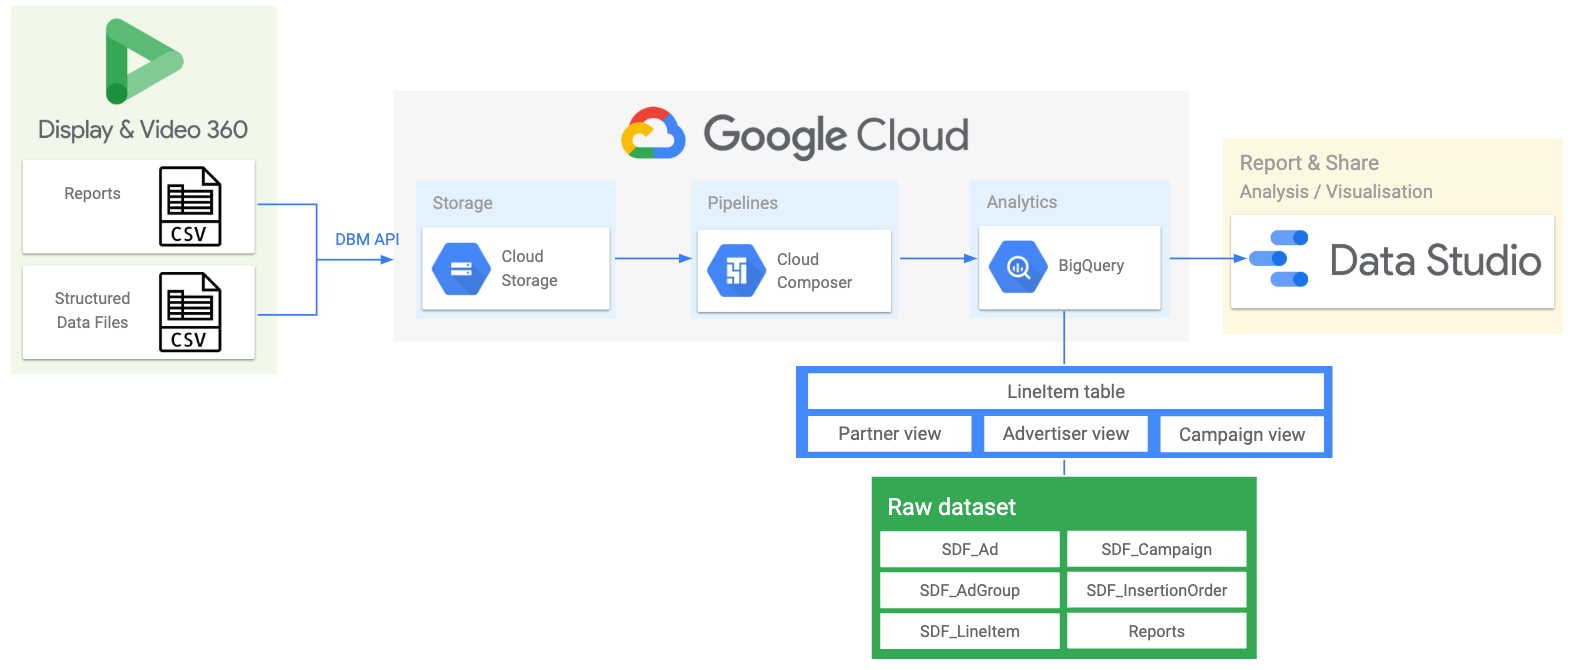
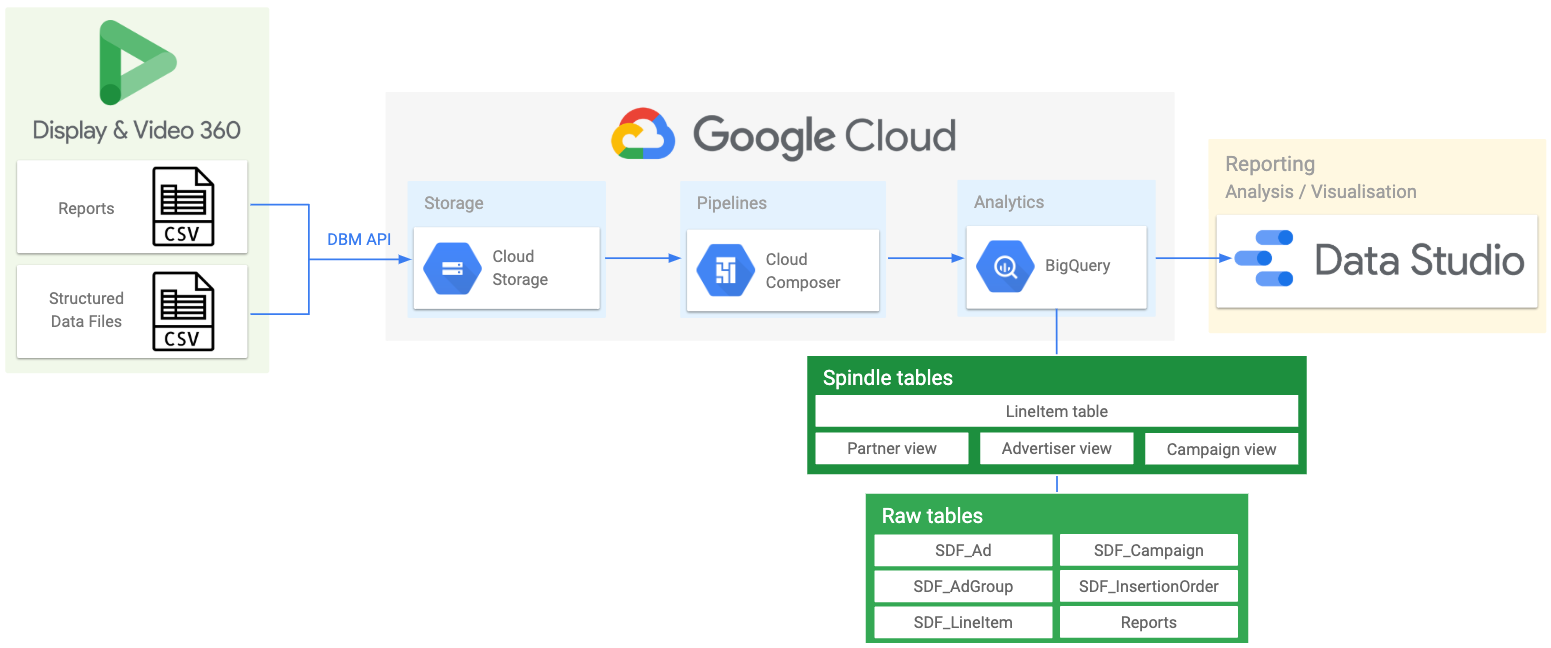
Updated readme, and deploy.sh

Changed region(s): [[0.0, 0.1852, 1.0, 1.0], [0.3714, 0.1543, 0.619, 0.2469], [0.0, 0.0309, 0.1547, 0.216]]

diff --git a/dags/spindle_dag.py b/dags/spindle_dag.py
@@ -42,6 +42,10 @@ from orchestra.google.marketing_platform.sensors.display_video_360 import (
 
 logger = logging.getLogger(__name__)
 
+# --------------------------------------------------------------------------------
+# Set variables
+# --------------------------------------------------------------------------------
+
 advertisers_report_definition = """{
   "params": {
     "type": "TYPE_GENERAL",
@@ -99,7 +103,6 @@ perf_report_definition = """{
         "METRIC_BILLABLE_IMPRESSIONS",
         "METRIC_CLICKS",
         "METRIC_CTR",
-        "METRIC_TRUEVIEW_VIEWS",
         "METRIC_TOTAL_CONVERSIONS",
         "METRIC_LAST_CLICKS",
         "METRIC_LAST_IMPRESSIONS",
@@ -128,6 +131,9 @@ def group_advertisers(l, n):
   for i in range(0, len(l), n):
     yield l[i:i + n]
 
+# --------------------------------------------------------------------------------
+# Set default arguments
+# --------------------------------------------------------------------------------
 
 default_args = {
     "owner": "airflow",
@@ -137,6 +143,10 @@ default_args = {
     "retries": 1,
     "retry_delay": timedelta(seconds=3),
 }
+
+# --------------------------------------------------------------------------------
+# Main DAG
+# --------------------------------------------------------------------------------
 
 dag = models.DAG(
     'spindle_v3',

diff --git a/README.md b/README.md
@@ -2,9 +2,9 @@
 
 ## What is Spindle?
 
-Spindle is a QA (quality assurance) dashboard that can be used to identify financial or reputational risk across multiple Display & Video 360 (DV360) advertisers, surfaced in a fully configurable Data Studio dashboard. It uses a set of predefined ‘flags’ to stack rank DV360 entities according to potential risk. Flags can be reconfigured as required to check for personalized best practices (e.g. naming conventions, brand safety, etc).
+Spindle is a QA and feature adoption dashboard for Display & Video 360 (DV360) advertisers. It can be used to quickly identify financial (e.g. overspend) or reputational (e.g. brand safety) risk, and validate best practice across multiple advertisers. Spindle uses a set of predefined ‘flags’ to stack rank DV360 entities according to potential risk, but is fully configurable, and can be customised to check for specific best practice or flags (e.g. adherence to naming conventions, brand safety controls, audience, geo targeting, etc).
 
-Spindle leverages [Orchestra](https://github.com/google/orchestra), an open source data pipeline and orchestration tool developed on Google Cloud Composer. This repository is intended to streamline the deployment of Spindle, and required components from Orchestra, to a new or existing Cloud Composer environment.
+Spindle utilises [Orchestra](https://github.com/google/orchestra), an open source data orchestration tool developed on Google Cloud Composer. This repository is intended to streamline the deployment of Spindle and the necessary components from Orchestra, to a new or existing Cloud Composer environment.
 
 **This is not an officially supported Google product.**
 
@@ -14,85 +14,114 @@ Spindle leverages [Orchestra](https://github.com/google/orchestra), an open sour
 
 ## Installation
 
-The easiest and quickest way to deploy Spindle, is by using this deployment script. New deployments should take ~25 minutes to complete. Deployments to existing Composer environments should finish in under 5 mins.
+The easiest and quickest way to deploy Spindle, is by using this deployment script. New deployments should take approximately 25 minutes to complete. Deployments to existing Composer environments should finish in under 5 mins.
 
 ### Before you begin
 
 #### Prepare your Cloud project
 This script will use the default service credentials for Compute Engine ("Compute Engine default service account"). These service accounts have access to all Cloud APIs enabled for your Cloud project, making them a good fit for Spindle/Orchestra.
 
-*   Make sure that billing is enabled for your Google Cloud project.
-*   Enable the [Cloud Composer](https://console.cloud.google.com/apis/library/composer.googleapis.com) and [DoubleClick Bid Manager API](https://console.cloud.google.com/apis/api/doubleclickbidmanager.googleapis.com/overview) from the [API Library](https://console.cloud.google.com/apis/library)
-*   **Important**: create your destination BigQuery dataset **before** deploying your pipeline. The Spindle DAG will fail if the dataset does not exist prior to execution. This is to prevent accidentally overwriting an existing dataset.
+*   Make sure that billing is enabled for your Google Cloud project
+*   Enable the [Cloud Composer](https://console.cloud.google.com/apis/library/composer.googleapis.com) and [DoubleClick Bid Manager](https://console.cloud.google.com/apis/api/doubleclickbidmanager.googleapis.com/overview) API from the [API Library](https://console.cloud.google.com/apis/library)
+*   **Important**: create your destination BigQuery dataset **before** deployment. The Spindle pipeline will fail if the dataset does not exist prior to execution, to prevent accidentally overwriting existing datasets.
 
 > :exclamation: If deploying to an existing Composer environment, ensure it has DoubleClick Bid Manager included in the 'Google API scopes' or Airflow connection.
 
 #### Create Display & Video 360 user
 
-Your Compute Engine service account email (similar to XX-compute@developer.gserviceaccount.com) will need to be setup as a DV360 user so that it can access the required data from your DV360 account. DV360 partner-level access is required to [create a new user](https://support.google.com/displayvideo/answer/2723011?hl=en). New DV360 users should be created using this configuration:
+Your Compute Engine service account email (similar to XX-compute@developer.gserviceaccount.com) will need to be setup as a DV360 user so that it can access data from your DV360 account. DV360 partner-level access is required to [create a new user](https://support.google.com/displayvideo/answer/2723011?hl=en). New DV360 users should be created using this configuration:
 
 *   'User email' should be the email associated with your default service account
 *   Select all Partner IDs you wish to access with Spindle
-*   Ensure the user is given 'Read & write' access permissions
+*   Ensure the user is given 'Read & write' access permission
 
 ### Pipeline setup
 
-1.   Activate the [Cloud Shell](https://cloud.google.com/shell/docs/using-cloud-shell) and then 'Launch Editor'
-2.   From the command Shell, clone this repository
+1.   Launch a new [Cloud Shell](https://cloud.google.com/shell/docs/launching-cloud-shell) with the code editor [activated](https://ssh.cloud.google.com/cloudshell/editor)
+3.   From the Cloud Shell, clone this repository:
 
 ```shell
-git clone https://github.com/google/spindle
+git clone https://github.com/google/spindle-dv360
 ```
-3.   From the editor window open the configuration file  `spindle.config`
+4.   From the code editor, use the left-hand pane to find and open the configuration file called `spindle.config`
 
-For deployments to a ***new*** Composer instance, follow this template:
-
-| Field |  | Description | Example |
-| :----- | :--------- | :----- | :---------- |
-| cloud_project_id| Required | Google Cloud Project ID | my-gcp-project1  |
-| bq_dataset | Required | BigQuery destination dataset name | spindle_client |
-| install_composer| Required | Indicates whether to create a new Composer instance | true  |
-| composer_location| Required | Compute Engine [region](https://cloud.google.com/compute/docs/regions-zones#locations) | europe-west2  |
-| composer_zone | Required | Compute Engine [zone](https://cloud.google.com/compute/docs/regions-zones#locations) | europe-west1-c |
-| composer_gcs_bucket | Optional | Cloud Storage bucket URI. Do not include leading 'gs://' or trailing '/dags' | Leave blank for new Composer instances |
-
-For deployments to an ***existing*** Composer instance:
+For deployments to a **new** Composer instance, `spindle.config` should follow this template:
 
 | Field |  | Description | Example |
 | :----- | :--------- | :----- | :---------- |
-| cloud_project_id| Required | Google Cloud Project ID | my-gcp-project1  |
-| bq_dataset | Required | BigQuery destination dataset name  | spindle_client |
-| install_composer| Required | Indicates whether to create a new Composer instance | false  |
-| composer_gcs_bucket | Required | Cloud Storage bucket URI. Do not include leading 'gs://' or trailing '/dags' | europe-west2-spindle-42cn4da-bucket |
+| *cloud_project_id*| Required | Google Cloud Project ID | my-gcp-project1  |
+| *bq_dataset* | Required | BigQuery destination dataset name | spindle_clientname |
+| *composer_gcs_bucket* | Optional | Cloud Storage bucket URI. Do not include leading 'gs://' or trailing '/dags' | Leave blank for new Composer instances |
+| *install_composer*| Required | Indicates whether to create a new Composer instance | true  |
+| *composer_location*| Required | Compute Engine [region](https://cloud.google.com/compute/docs/regions-zones#locations) | europe-west2  |
+| *composer_zone* | Required | Compute Engine [zone](https://cloud.google.com/compute/docs/regions-zones#locations) | europe-west1-c |
 
-4.  After updating `spindle.config`, execute the following in the Shell:
+
+Your completed `spindle.config` should look similar to:
+
+```json
+{
+  "cloud_project_id": "my-gcp-project1",
+  "bq_dataset": "spindle_clientname",
+  "composer_gcs_bucket": "",
+  "install_composer": "true",
+  "environment_name": "clientname-spindle",
+  "composer_location": "europe-west1",
+  "composer_zone": "europe-west1-c"
+}
+```
+For deployments to an **existing** Composer instance:
+
+| Field |  | Description | Example |
+| :----- | :--------- | :----- | :---------- |
+| *cloud_project_id*| Required | Google Cloud Project ID | my-gcp-project1  |
+| *bq_dataset* | Required | BigQuery destination dataset name  | spindle_clientname |
+| *composer_gcs_bucket* | Required | Cloud Storage bucket URI. Do not include leading 'gs://' or trailing '/dags' | europe-west2-spindle-42cn4da-bucket |
+| *install_composer*| Required | Indicates whether to create a new Composer instance | false  |
+
+
+Your completed `spindle.config` should look similar to:
+
+```json
+{
+  "cloud_project_id": "my-gcp-project1",
+  "bq_dataset": "spindle_clientname",
+  "composer_gcs_bucket": "europe-west2-spindle-42cn4da-bucket",
+  "install_composer": "false",
+  "environment_name": "",
+  "composer_location": "",
+  "composer_zone": ""
+}
+```
+
+5.  After updating `spindle.config`, execute the following in the Cloud Shell:
 
 ```shell
-cd spindle
+cd spindle-dv360
 . deploy.sh spindle.config
 ```
 
-If you used the script to create a new Composer instance, most of the configuration has been done for you, but you'll still need to update your partner IDs.
+If you've used this script to create a new Composer instance, most of the Airflow configuration has been done for you, but you'll need to update your DV360 Partner IDs...
 
-5.  Open your 'Airflow webserver' from the  [Composer environments list](https://console.cloud.google.com/composer/environments). Navigate to Admin >> Variables, update the variable 'partner_ids'. Partner IDs must be surrounded by double quotes and comma-separated e.g. "1234", "5678".
+6.  Open your 'Airflow webserver' from the  [Composer environments list](https://console.cloud.google.com/composer/environments). Navigate to Admin >> Variables, update the variable called 'partner_ids'. Partner IDs must be surrounded by double quotes and comma-separated e.g. "1234", "5678".
 
-If you're using an existing Composer environment, variables must be created manually, as detailed [here](https://github.com/google/orchestra#variables). This is to prevent overwriting an existing configuration.
+If you're deploying to an existing Composer environment, Airflow variables must be created manually, [detailed here](https://github.com/google/orchestra#variables), to prevent overwriting or breaking an existing configuration.
 
 ### Dashboard setup
 
-By default, the Spindle DAG is configured to run at 10PM daily. This means that your BigQuery datasets will not be generated until the first run has finished. Once your pipeline has finished for the first time, you can proceed with dashboard setup.
+By default, the Spindle DAG is configured to run at 10PM daily. This means that your new BigQuery tables will not be generated until the first run has finished. Once your pipeline has finished for the first time, and BigQuery dataset populated, you should proceed with this setup.
 
-> :warning: **Warning:** manually triggering the DAG before the schedule (10pm) may result in duplicate rows in your dataset.
+> :warning: **Warning:** manually triggering the DAG outside the schedule (10pm) may result in duplicate rows in your dataset.
 
-1.   Make copies of the x4 Data Studio data source templates:
-*   Open [LineItem view](#) -- click 'Make a copy of this datasource`, then 'Edit connection', and associate the new data source with the corresponding table in your BigQuery dataset: 'spindle_lineitem_view'.
-*   Open [Partner view](#) -- click 'Make a copy of this datasource', then 'Edit connection', and associate the new data source with the corresponding view in your BigQuery dataset: 'spindle_partner_view'.
-*   Open [Advertiser view](#) -- click 'Make a copy of this datasource', then 'Edit connection', and associate the new data source with the corresponding view in your BigQuery dataset: 'spindle_advertiser_view'.
-*   Open [Campaign view](#) -- click 'Make a copy of this datasource', then 'Edit connection', and associate the new data source with the corresponding view in your BigQuery dataset: 'spindle_campaign_view'.
-2.   Open the master Data Studio [report template](#) -- after copying the report, you'll be prompted to select new datasources. Swap out the 'Original data source' with the copies you created in the previous steps and click 'Copy Report'.
-3.   Your report should now be ready to share with other users.
+1.   Make copies of the x4 Data Studio data source templates. It's important that you create copies of the data sources before copying the report, otherwise you'll lose all customisations to the data source.
+*   Open [LineItem view](https://datastudio.google.com/datasources/804045dc-2666-4024-8015-f9bd7a105e1c) -- click 'Make a copy of this datasource`, then 'Edit connection', and associate the new data source with the corresponding table in your BigQuery dataset: '**spindle_lineitem_view**'. Under 'Coniguration' > 'Partitioned Table', be sure to tick the option to "Use report_date as partitioning column". Click 'Reconnect'.
+*   Open [Partner view](https://datastudio.google.com/datasources/e0fc3902-1fe6-42a2-b97c-0aa59aeacb48) -- click 'Make a copy of this datasource', then 'Edit connection', and associate the new data source with the corresponding view in your BigQuery dataset: '**spindle_partner_view**'. Click 'Reconnect'.
+*   Open [Advertiser view](https://datastudio.google.com/datasources/e5df4f24-027c-4879-9709-92636c7026bb) -- click 'Make a copy of this datasource', then 'Edit connection', and associate the new data source with the corresponding view in your BigQuery dataset: '**spindle_advertiser_view**'. Click 'Reconnect'.
+*   Open [Campaign view](https://datastudio.google.com/datasources/eb86791e-c30f-48fd-b2e1-3acca76042ab) -- click 'Make a copy of this datasource', then 'Edit connection', and associate the new data source with the corresponding view in your BigQuery dataset: '**spindle_campaign_view**'. Click 'Reconnect'.
+2.   Open the Data Studio [report template](https://datastudio.google.com/reporting/6bb24ab5-858a-4e4a-a8d8-4409f7e0b5bb) -- click 'Make a copy of this report'. You'll be prompted to select new datasources. Swap out the 'Original data source' with the copies you created in the previous steps and click 'Copy Report'.
+3.   Your report should automatically populate with data from your new BigQuery dataset. It may take a couple of days for all charts to render correctly, as many are date filtered on today -2 days (to ensure data availability).
 
-> :warning: **Warning:** sharing the Data Studio dashboard with other users, will allow them to view all data in dashboard, regardless of whether they have the underlying permissions to view the DV360 Partners/Advertisers featured in the dashboard.
+> :warning: **Warning:** sharing the Data Studio dashboard with other users will allow them to view all data in dashboard, regardless of whether they have the underlying access permissions to view the DV360 Partner(s) surfaced in the dashboard. Access to the dashboard should be carefully managed.
 
 ## Data & Privacy
 
